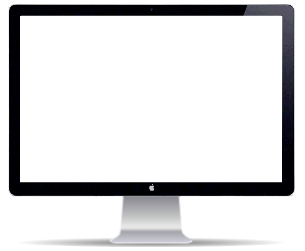
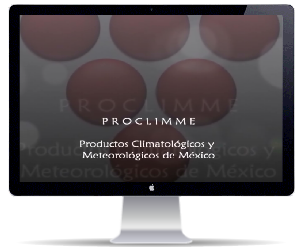
se agrego diseño de mac
Se agrego el diseño de la mac para el video y se encontraron los links
para ponerlos como imagenes

diff --git a/lib/css/diseno.css b/lib/css/diseno.css
@@ -270,3 +270,25 @@ body{
 	width:405px;
 	padding:20px 20px 20px 20px;
 }
+
+
+.marco > .links > .monitor{
+	background-image:url(../../image/mac.png);
+	background-position:center center;
+	background-repeat:no-repeat;
+	width:405px;
+	height:300px;
+	padding-top:1px;
+}
+
+.marco > .links > .monitor > .pantalla{
+	cursor:pointer;
+	width:260px;
+	height:165px;
+	margin:40px auto 0 auto;
+}
+
+.marco > .links > .monitor > .pantalla:hover{
+	background-image:url(../../image/mac_play.png);
+	background-position:center;
+}

diff --git a/index.php b/index.php
@@ -144,11 +144,14 @@
                 <div class="limpiar"> </div>
             </div>
         </div>
-        <div class="links"><p><!-- <img src="image/mac.png" width="305" height="251" />dffdsfsdfds</p> -->
-        <a href="media/video/intro_proclimme.flv"
+        <div class="links">
+        <div class="monitor">
+        	<div class="pantalla"></div>
+        </div>
+        <!-- <a href="media/video/intro_proclimme.flv"
    style="display:block;width:405px;height:300px;"
    id="player">
-</a>
+</a> -->
         </div>
     	<div class="limpiar"></div>
     </div>
